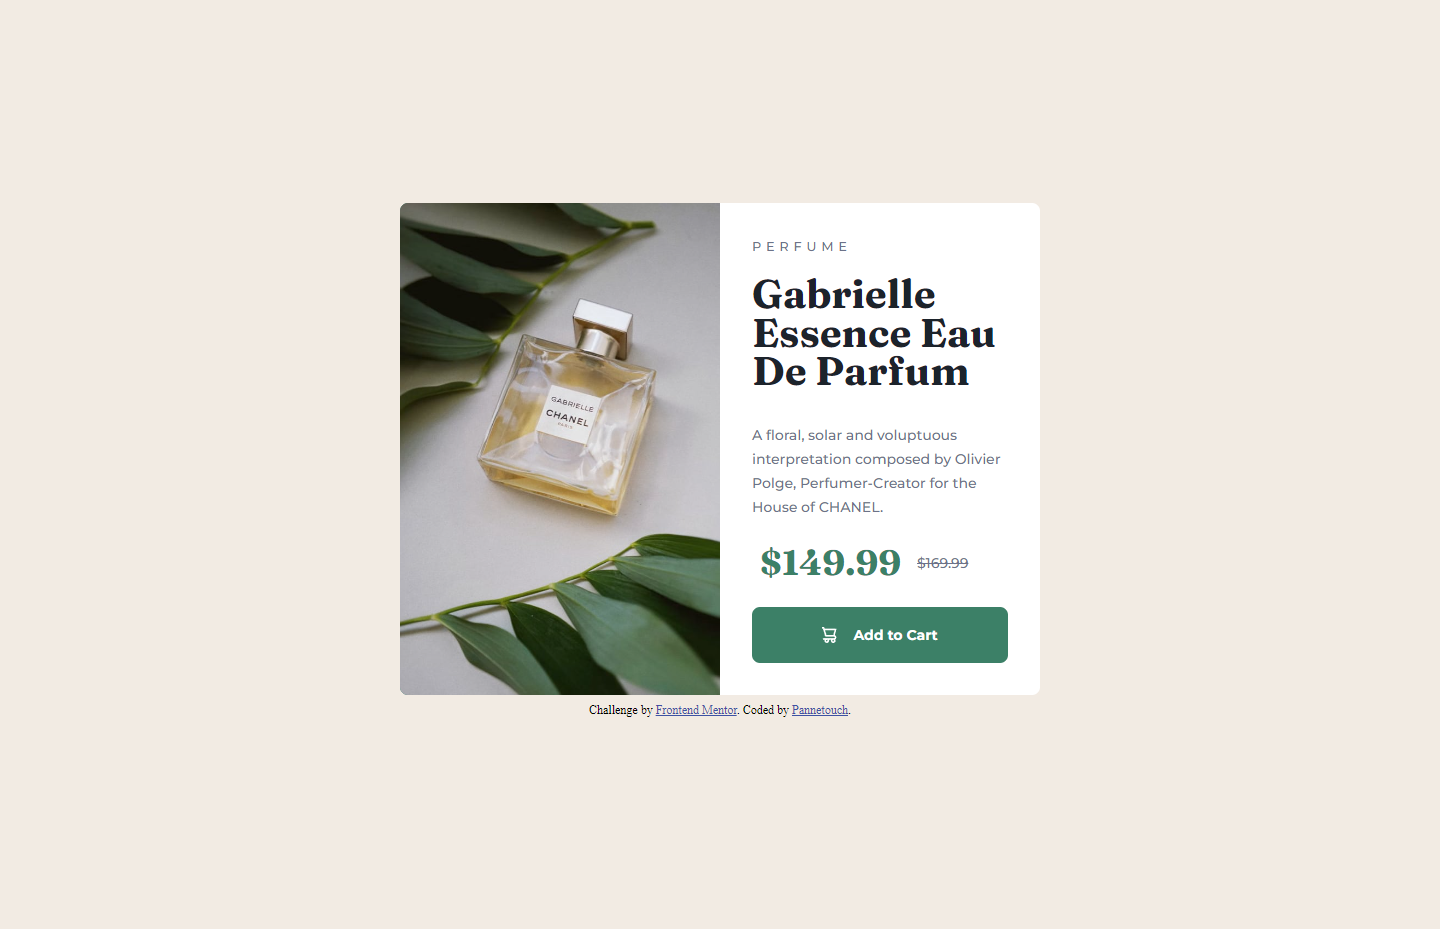
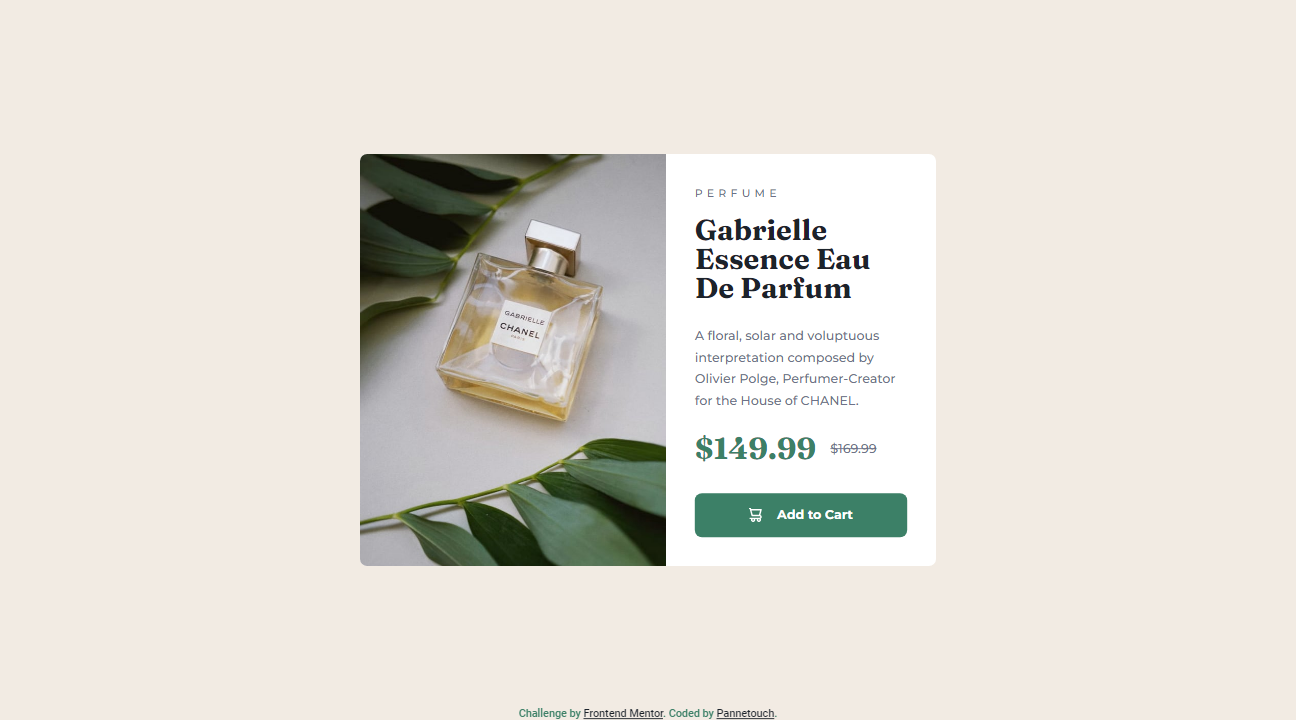
📝 minor update

Changed region(s): [[0.2778, 0.2139, 0.7407, 0.7944], [0.4012, 0.9778, 0.6173, 1.0]]

diff --git a/style.css b/style.css
@@ -29,14 +29,26 @@ body {
   margin: 0;
   background-color: var(--secondary);
   min-height: 100vh;
-  display: flex;
-  flex-direction: column;
-  justify-content: center;
-  align-items: center;
 }
 
 main {
-  padding: 1rem;
+  overflow: hidden;
+  position: relative;
+  min-height: 100vh;
+  display: flex;
+  background-color: var(--dark-blue-main);
+  justify-content: center;
+  align-items: center;
+  z-index: 10;
+}
+
+footer {
+  z-index: 10;
+  position: fixed;
+  bottom: 0;
+  float: none;
+  margin: auto;
+  width: 100%;
 }
 
 span,
@@ -47,20 +59,21 @@ p {
   line-height: 1.5rem;
 }
 
+p {
+  margin: 0 0 1.4rem 0;
+}
+
 h1 {
   font-family: Fraunces;
   font-weight: 700;
-  font-size: 1.9rem;
-  line-height: 1.9rem;
+  font-size: 2rem;
+  line-height: 1;
   color: var(--dark-blue);
   overflow-wrap: break-word;
+  margin: 0.4rem 0 0.8rem 0;
 }
 
 /* CARD */
-.my-1 {
-  margin: 1rem 0;
-}
-
 .mt-1 {
   margin-top: 1rem;
 }
@@ -72,26 +85,24 @@ h1 {
   overflow: hidden;
   display: flex;
   width: 100%;
+  margin: 1rem;
   max-width: 40rem;
   min-width: 12.5rem;
   flex-direction: column;
 }
 
 .card .tag {
-  font-size: 0.8rem;
+  font-size: 0.75rem;
   letter-spacing: 0.3rem;
   text-transform: uppercase;
 }
 
 .card .card-image {
-  flex: 1;
-  padding: 2rem;
-  background-color: var(--primary);
   background-image: url(./images/image-product-mobile.jpg);
   background-repeat: no-repeat;
   background-position: center;
   background-size: cover;
-  min-height: 15rem;
+  min-height: 240px;
   width: 100%;
 }
 
@@ -100,7 +111,8 @@ h1 {
   overflow: auto;
   display: flex;
   flex-direction: column;
-  padding: 2rem;
+  padding: 1.5rem;
+  box-sizing: border-box;
 }
 
 .prices {
@@ -111,12 +123,13 @@ h1 {
 }
 
 .prices span {
-  margin: auto 0.5rem;
+  line-height: 2.25rem;
+  margin-right: 1rem;
 }
 
 .prices span:first-child {
   color: var(--primary);
-  font-size: 2.2rem;
+  font-size: 2.1rem;
   font-family: Fraunces;
   font-weight: bold;
 }
@@ -128,8 +141,7 @@ h1 {
 /* RESPONSIVE */
 @media (min-width: 527px) {
   h1 {
-    font-size: 2.5rem;
-    line-height: 2.4rem;
+    margin: 0.8rem 0 1.6rem 0;
   }
 
   .card {
@@ -141,6 +153,15 @@ h1 {
     background-image: url(./images/image-product-desktop.jpg);
     min-height: 100%;
   }
+
+  .card .card-content {
+    padding: 2rem;
+    max-width: 300px;
+  }
+
+  .prices {
+    margin-bottom: 1rem;
+  }
 }
 
 /* BUTTON */
@@ -149,7 +170,7 @@ h1 {
   display: flex;
   justify-content: center;
   align-items: center;
-  padding: 1rem;
+  padding: 0.8rem;
   border-radius: 0.5rem;
   text-align: center;
   font-weight: bold;
@@ -174,13 +195,14 @@ h1 {
 
 /* ATTRIBUTION */
 .attribution {
-  margin: 0.5rem 0;
+  font-family: roboto;
   font-size: 0.75rem;
   text-align: center;
+  color: var(--primary);
 }
 
 .attribution a {
-  color: hsl(228, 45%, 44%);
+  color: var(--dark-blue);
 }
 
 /* MISC  */

diff --git a/index.html b/index.html
@@ -20,12 +20,12 @@
         <div class="card-image"></div>
         <div class="card-content">
           <span class="tag">Perfume</span>
-          <h1 class="my-1">Gabrielle Essence Eau De Parfum</h1>
-          <p class="my-1">
+          <h1>Gabrielle Essence Eau De Parfum</h1>
+          <p>
             A floral, solar and voluptuous interpretation composed by Olivier
             Polge, Perfumer-Creator for the House of CHANEL.
           </p>
-          <div class="prices my-1">
+          <div class="prices">
             <span>$149.99</span>
             <span>$169.99</span>
           </div>
@@ -34,14 +34,18 @@
           </a>
         </div>
       </div>
+    </main>
 
+    <footer>
       <div class="attribution">
         Challenge by
-        <a href="https://www.frontendmentor.io?ref=challenge" target="_blank"
+        <a
+          href="https://www.frontendmentor.io/challenges/product-preview-card-component-GO7UmttRfa"
+          target="_blank"
           >Frontend Mentor</a
         >. Coded by
         <a href="https://github.com/Alexis-Pannetier">Pannetouch</a>.
       </div>
-    </main>
+    </footer>
   </body>
 </html>

diff --git a/README.md b/README.md
@@ -37,7 +37,7 @@ Users should be able to:
 
 ### Links
 
-- Live Site Netlify : [Demonstration](https://pannetouch-product-preview-card-component-main.netlify.app/)
+- Live Site URL : [Demonstration](https://pannetouch-product-preview-card.netlify.app)
 
 ## My process
 
